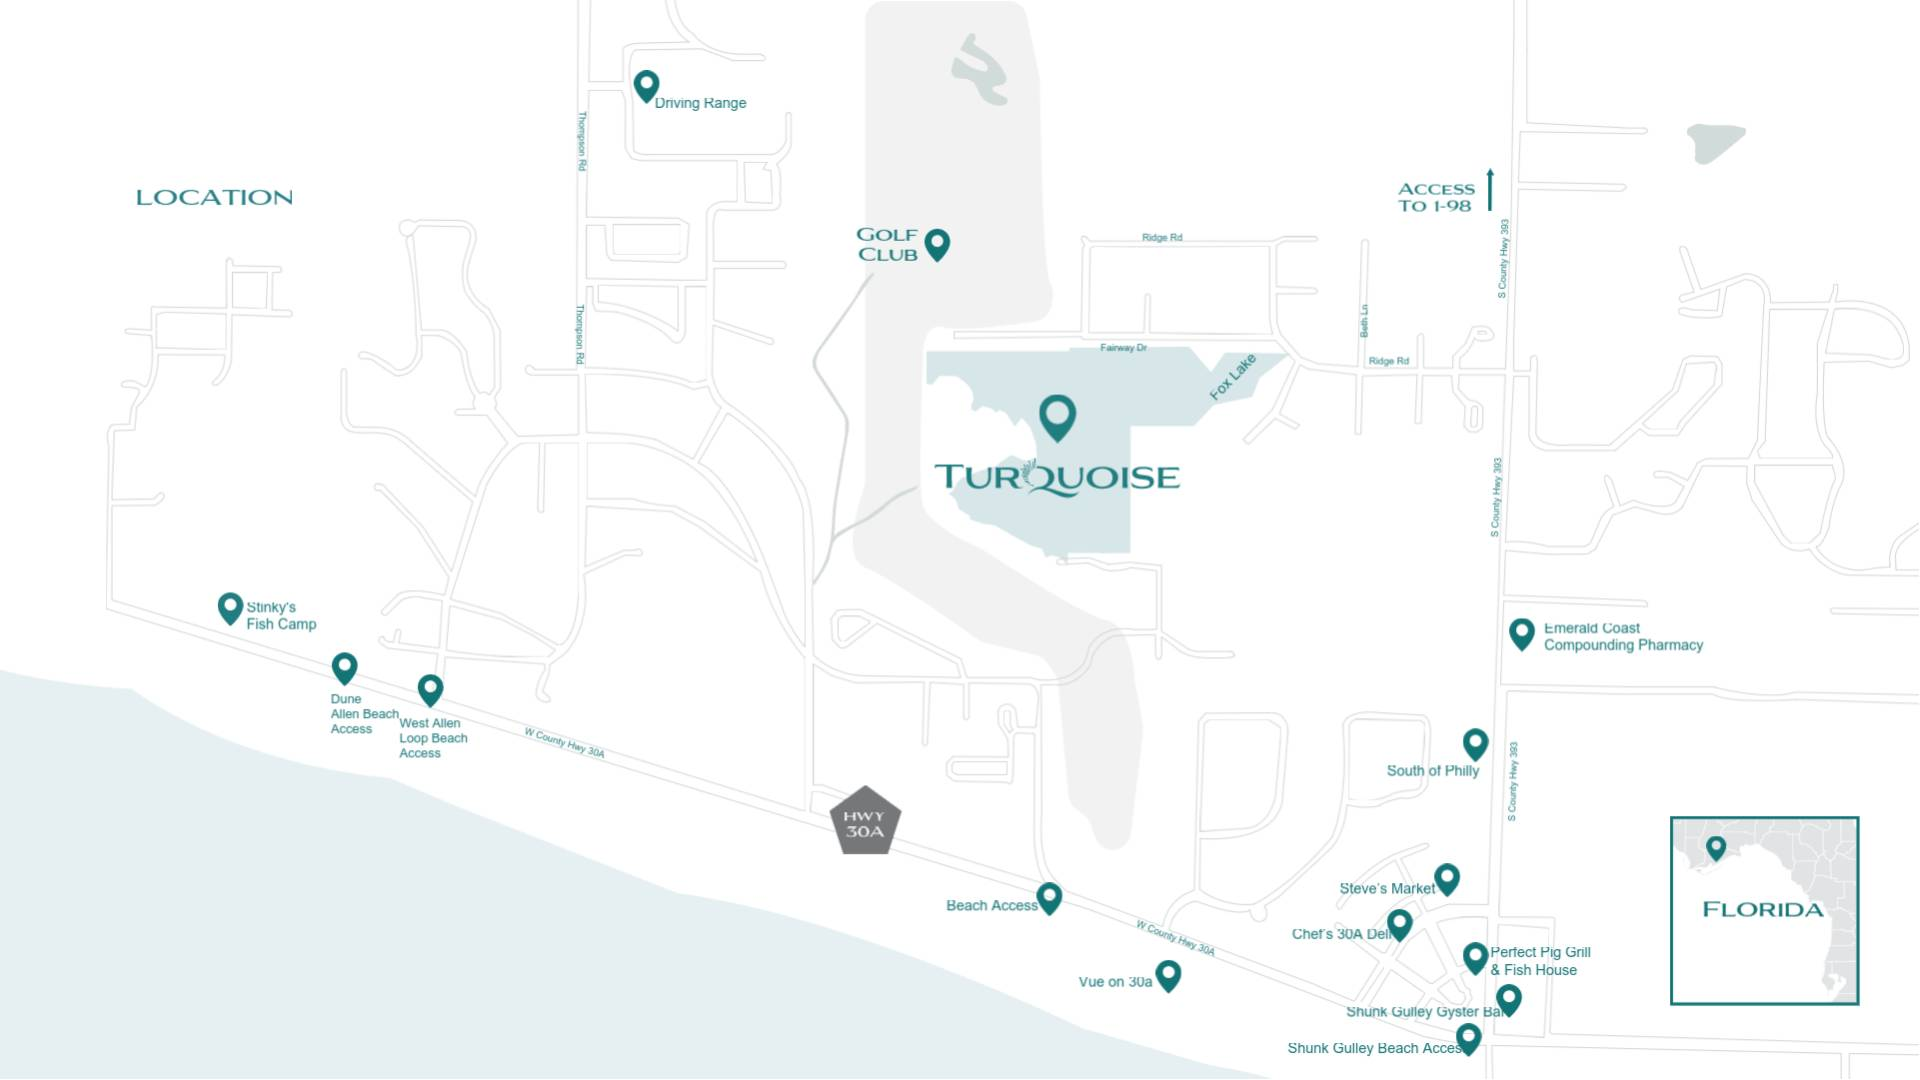
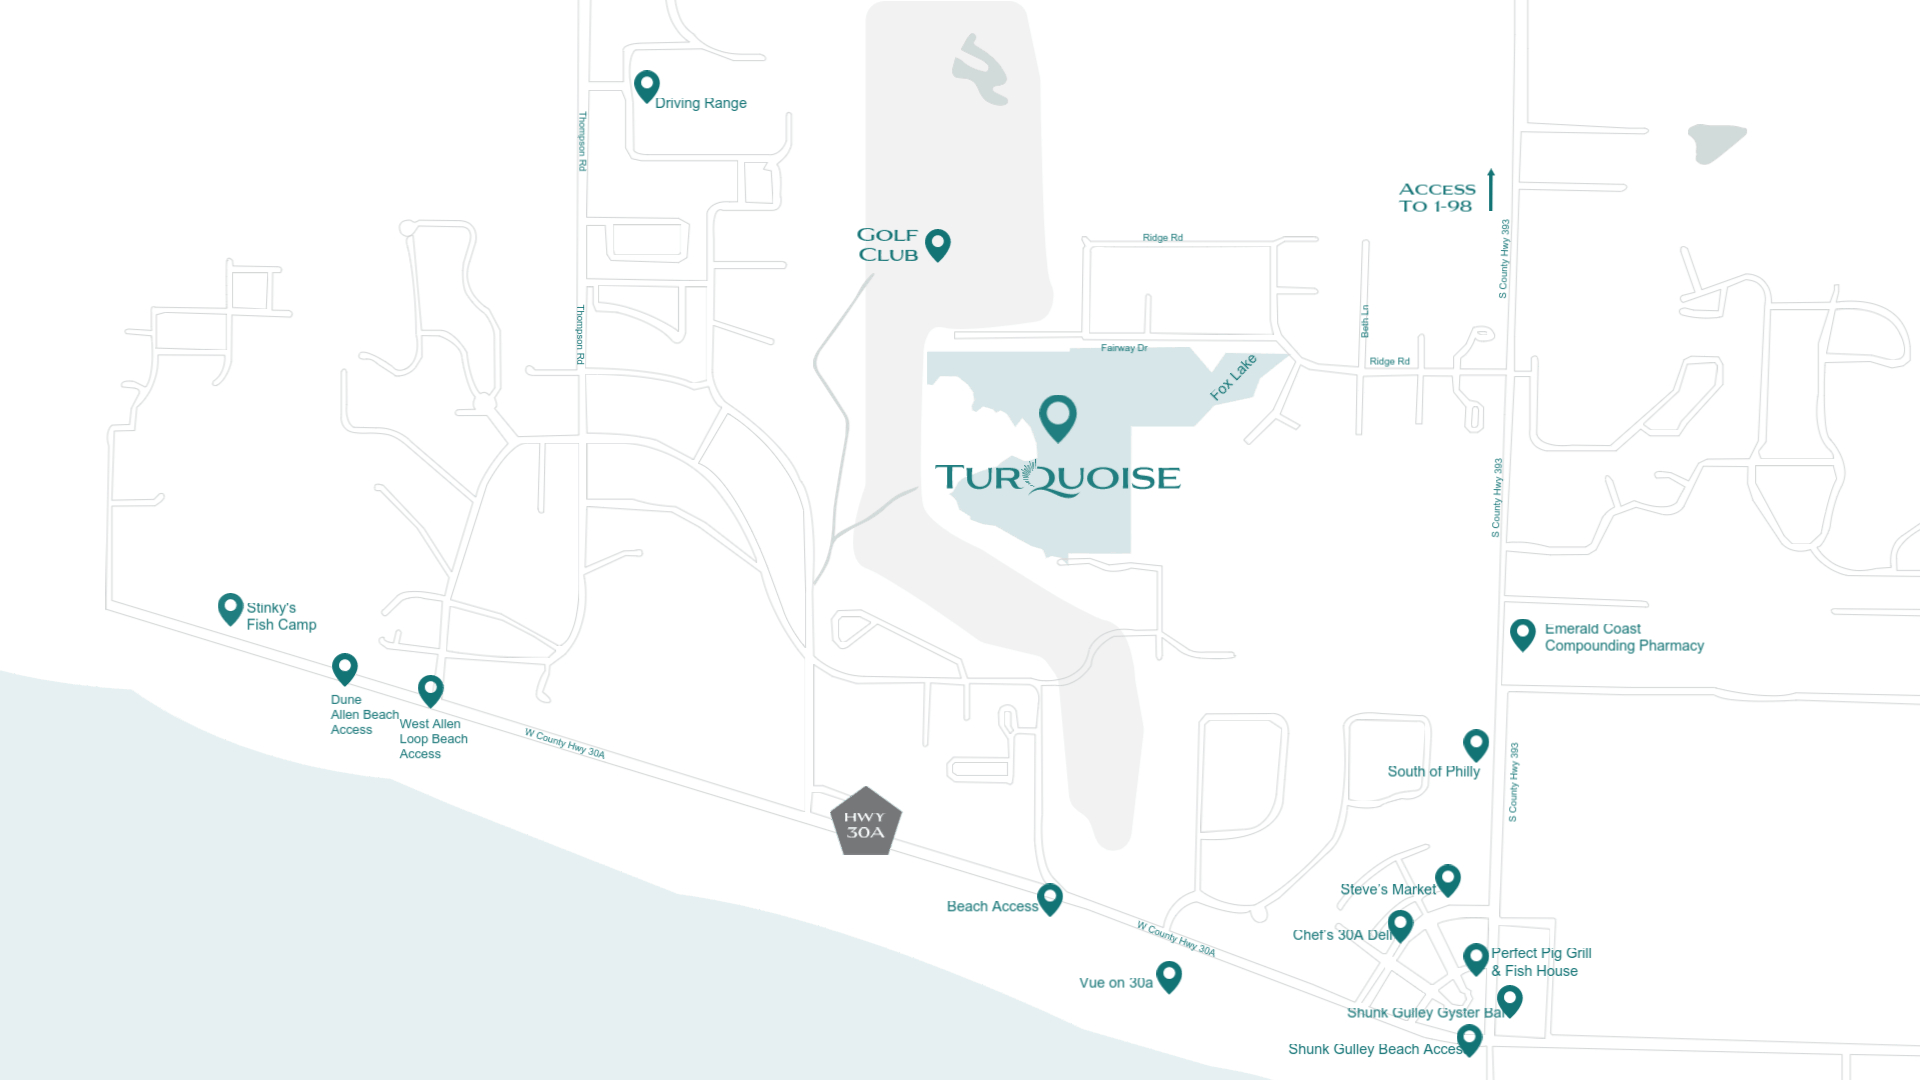
refactor: Improving text rendering

Changed region(s): [[0.8438, 0.7333, 0.9688, 0.9472], [0.0938, 0.1528, 0.1562, 0.2139]]

diff --git a/pages/index.tsx b/pages/index.tsx
@@ -2,9 +2,9 @@ import { BackdropVideo } from "@components/Backdrop/BackdropVideo"
 import PageMetadata from "@components/PageMetadata"
 import FloatingMenu from "@layouts/FloatingMenu"
 import IconOfLuxuryAndExclusivity from "@layouts/IconOfLuxuryAndExclusivity"
+import Location from "@layouts/Location"
 import ScrollTip from "@layouts/Scroll"
 import VerticalSwipePage from "@layouts/VerticalSwipePage"
-import Image from "next/image"
 import React from "react"
 
 interface State {
@@ -69,7 +69,7 @@ export default class Index extends React.Component<{}, State> {
 
                     <IconOfLuxuryAndExclusivity />
 
-                    <Image src="/img/location.jpg" layout="fill" objectFit="cover" objectPosition="center center" />
+                    <Location />
                 </VerticalSwipePage>
             </>
         )

diff --git a/src/layouts/Location/index.tsx b/src/layouts/Location/index.tsx
@@ -1,0 +1,15 @@
+import { SectionHeading } from "@layouts/VerticalSwipePage/Section";
+import React from "react";
+import { LocationWrapper, Minimap } from "./style";
+
+export default class Location extends React.Component {
+
+    render(): JSX.Element {
+        return (
+            <LocationWrapper>
+                <SectionHeading as="h2">Location</SectionHeading>
+                <Minimap src="/img/location-florida.jpg" alt="Minimap with Florida pinpointed" />
+            </LocationWrapper>
+        )
+    }
+}

diff --git a/src/layouts/VerticalSwipePage/Section/index.tsx b/src/layouts/VerticalSwipePage/Section/index.tsx
@@ -1,4 +1,5 @@
-import { css } from "styled-components";
+import { COLORS } from "@styles/globals";
+import styled, { css } from "styled-components";
 
 export const Section = css`
     position: absolute;
@@ -7,4 +8,14 @@ export const Section = css`
     width: 100%;
     min-height: 100vh;
     max-height: 100%;
+`
+
+export const SectionHeading = styled.div`
+    position: absolute;
+    top: 14%;
+    left: 8%;
+	font-size: 1.6rem;
+    font-weight: bold;
+    line-height: 1;
+    color: ${COLORS.darkGreen};
 `

diff --git a/src/layouts/Location/style.ts b/src/layouts/Location/style.ts
@@ -1,0 +1,15 @@
+import { horizontalMargin, verticalMargin } from "@layouts/FloatingMenu/style";
+import { Section } from "@layouts/VerticalSwipePage/Section";
+import styled from "styled-components";
+
+export const LocationWrapper = styled.div`
+    ${Section}
+    background: url("/img/location.jpg") center center no-repeat #ffffff;
+    background-size: cover;
+`;
+
+export const Minimap = styled.img`
+    position: absolute;
+    right: ${horizontalMargin};
+    bottom: ${verticalMargin};
+`;
